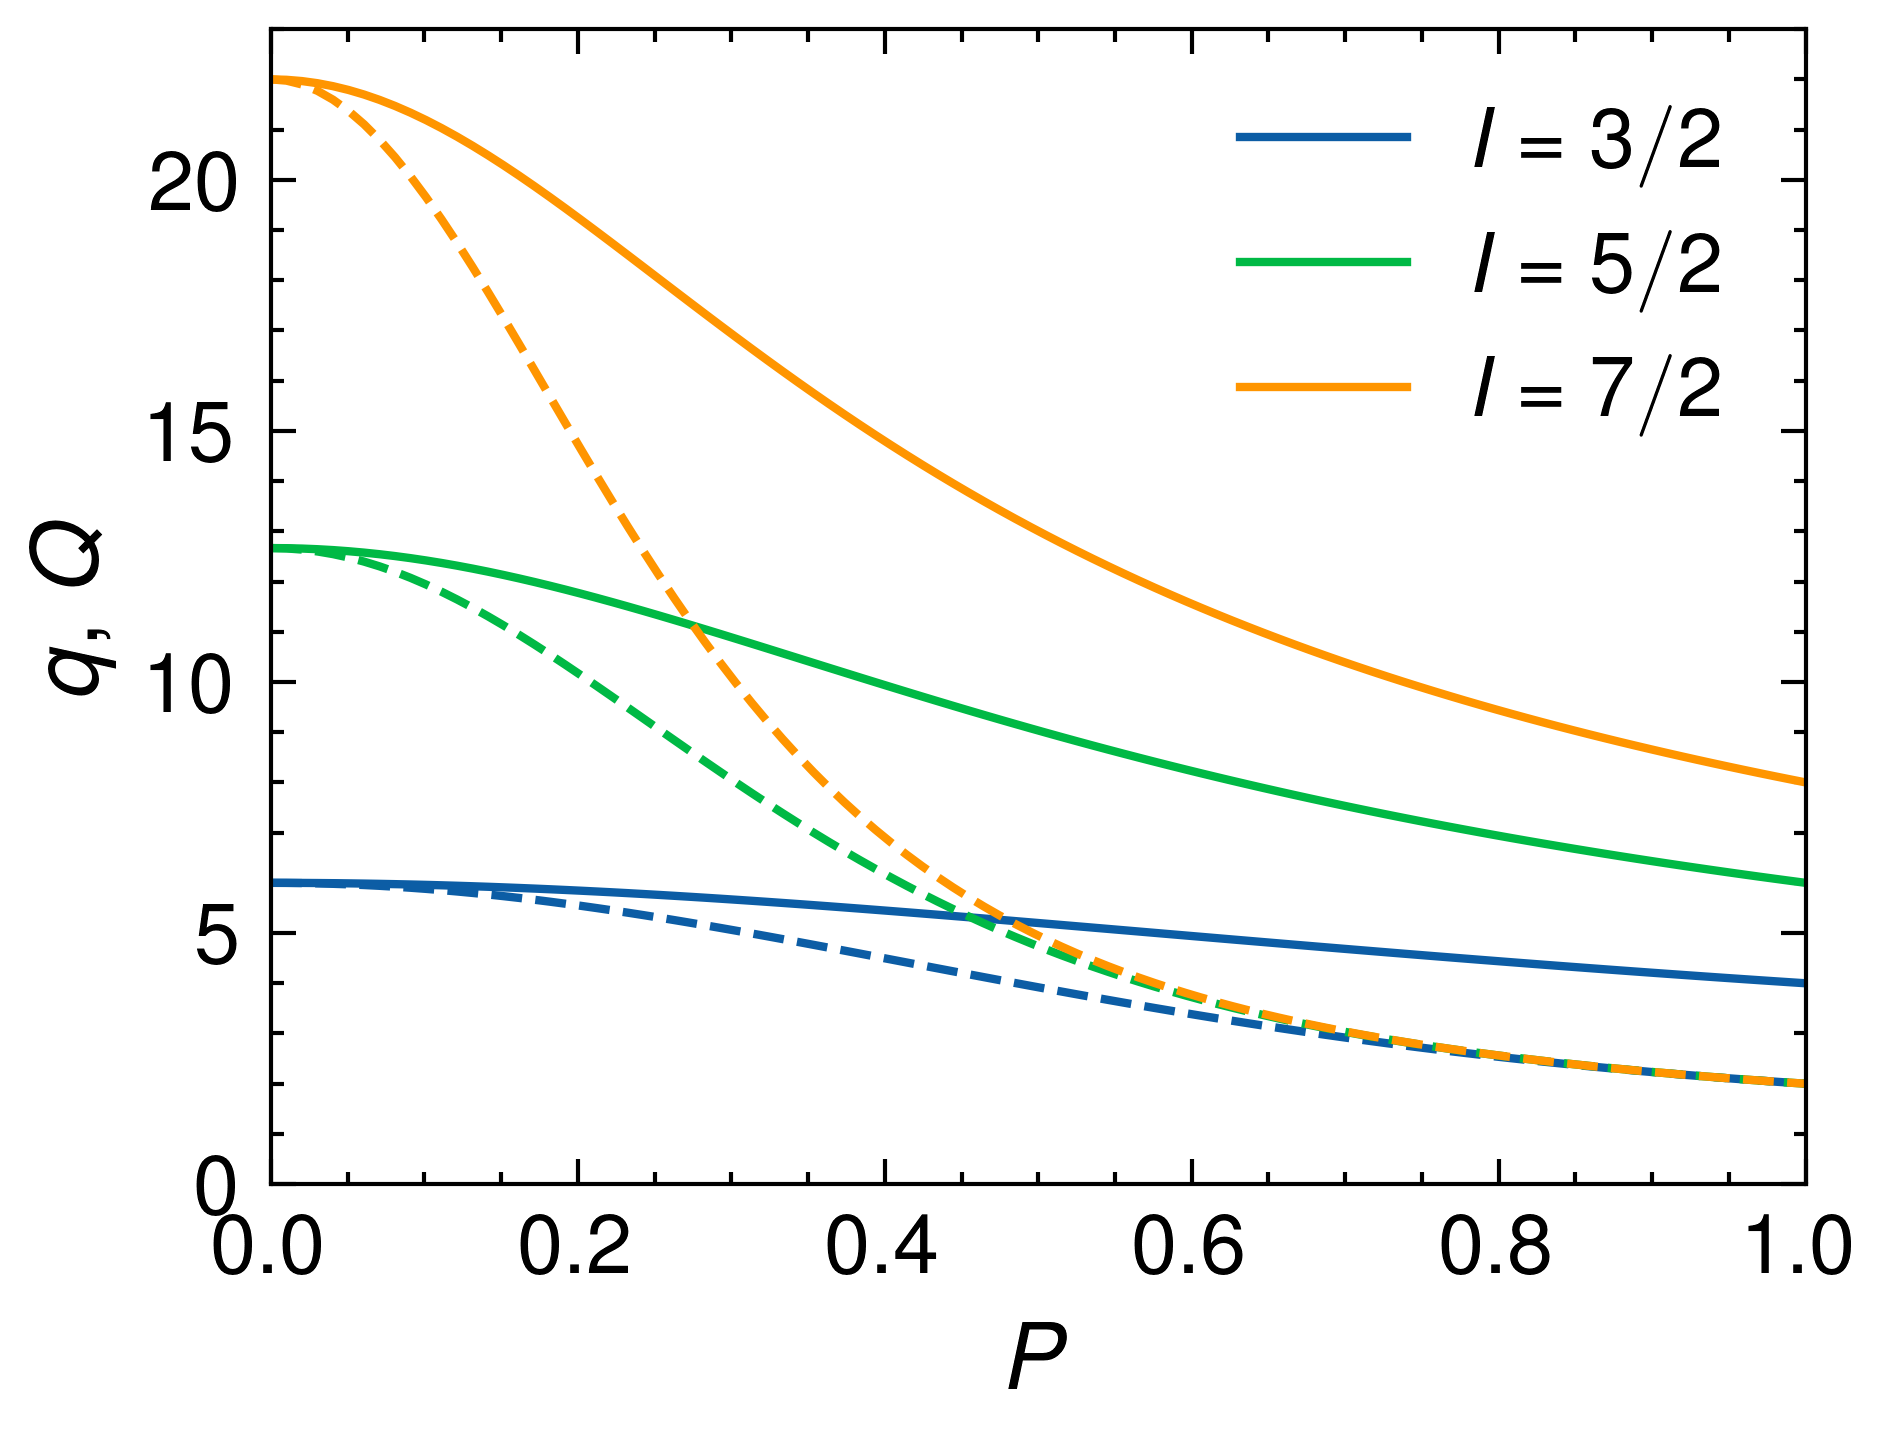
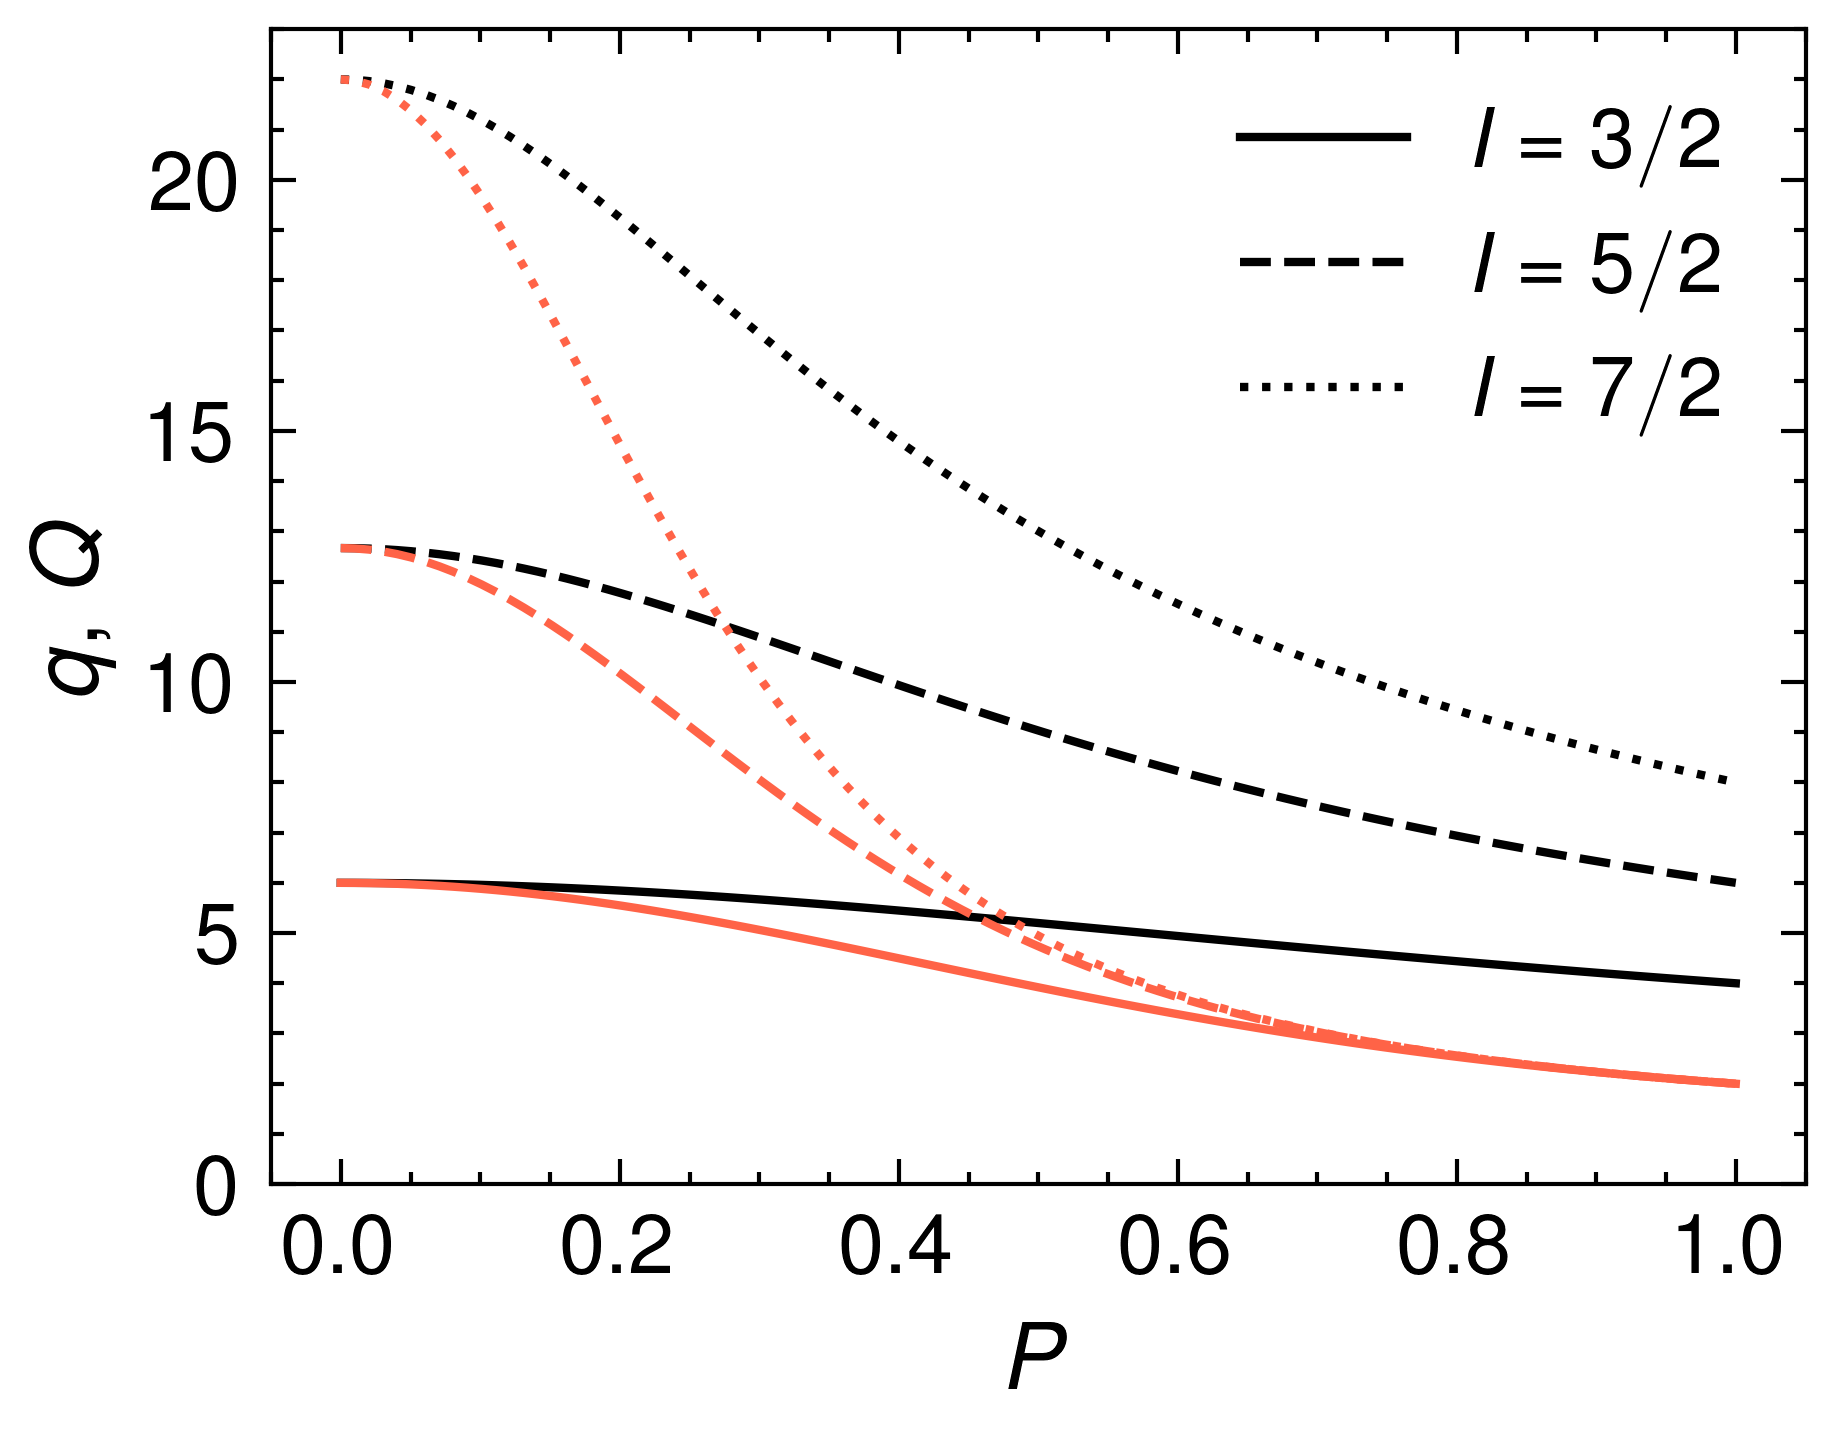
2

diff --git a/test8.py b/test8.py
@@ -23,21 +23,19 @@ PP=np.arange(0, 1001, 1)/1000
 plt.style.use(['science','nature'])
 with plt.style.context(['science','nature']):
     fig1 = plt.figure()
-    p1,=plt.plot(PP, -Fm1)
-    p2,=plt.plot(PP, -Fm2)
-    p3,=plt.plot(PP, -Fm3)
-    plt.plot([],[])
-    plt.plot([],[])
-    plt.plot([],[])
-    plt.plot([],[])
-    p4, = plt.plot(PP, h*np.ones(1001), linestyle='dashed')
-    p5, = plt.plot(PP, hh*np.ones(1001),linestyle='dashed')
-    p6, = plt.plot(PP, hhh*np.ones(1001),linestyle='dashed')
+    p1,=plt.plot(PP, -Fm1,linestyle='solid',color='tomato')
+    p2,=plt.plot(PP, -Fm2,linestyle='dashed',color='tomato' )
+    p3,=plt.plot(PP, -Fm3,linestyle='dotted',color='tomato')
+
+
+    p4, = plt.plot(PP, h*np.ones(1001),linestyle='solid',color='black')
+    p5, = plt.plot(PP, hh*np.ones(1001),linestyle='dashed',color='black')
+    p6, = plt.plot(PP, hhh*np.ones(1001),linestyle='dotted',color='black')
     plt.xlabel('$P$', fontsize=11)
     plt.ylabel('$\Gamma_z^-$ ($R_{\\rm{se}}$) ',fontsize='11')
     plt.legend( [p1,p2,p3],["$ I=3/2$", "$ I=5/2$", "$ I=7/2$"],
                loc='upper right', prop={'size': 10})
-    # plt.ylim([0, 15.2])
+    plt.ylim([0.65, 0.9])
     # plt.xlim([0, 1])
     # plt.ticklabel_format(axis="y", style="sci", scilimits=(0,0))
     # plt.xlabel('Frequency (Hz)', fontsize=12)

diff --git a/picture of q Q.py b/picture of q Q.py
@@ -19,16 +19,12 @@ QQQ = 2 * (11 + 28 * P ** 2 + 99 * P ** 4 + 64 * P ** 6 + 49 * P ** 8 + 4 * P **
 plt.style.use(['science' ,'nature'])
 with plt.style.context(['science','nature']):
     plt.figure()
-    p1, = plt.plot(P, q,linestyle='solid')
-    p2, = plt.plot(P, qq,linestyle='solid' )
-    p3, = plt.plot(P,qqq,linestyle='solid')
-    plt.plot([],[])
-    plt.plot([],[])
-    plt.plot([],[])
-    plt.plot([],[])
-    p4, = plt.plot(P, Q,linestyle='dashed')
-    p5, = plt.plot(P, QQ,linestyle='dashed')
-    p6, = plt.plot(P, QQQ,linestyle='dashed')
+    p1, = plt.plot(P, q,linestyle='solid',color='black')
+    p2, = plt.plot(P, qq,linestyle='dashed',color='black' )
+    p3, = plt.plot(P,qqq,linestyle='dotted',color='black')
+    p4, = plt.plot(P, Q,linestyle='solid',color='tomato')
+    p5, = plt.plot(P, QQ,linestyle='dashed',color='tomato')
+    p6, = plt.plot(P, QQQ,linestyle='dotted',color='tomato')
     plt.legend([p1,p2,p3], ["$I={3/2}$",  "$I={5/2}$", "$I={7/2}$"],
                loc='upper right', prop={'size': 10})
 
@@ -39,7 +35,7 @@ with plt.style.context(['science','nature']):
     # my_y_ticks = np.arange(0, 1, 0.2)
     # plt.yticks(my_y_ticks)
     plt.ylim([0,23])
-    plt.xlim([0,1])
+    # plt.xlim([0,1])
 
     plt.savefig('qq.png', dpi=600)
 
